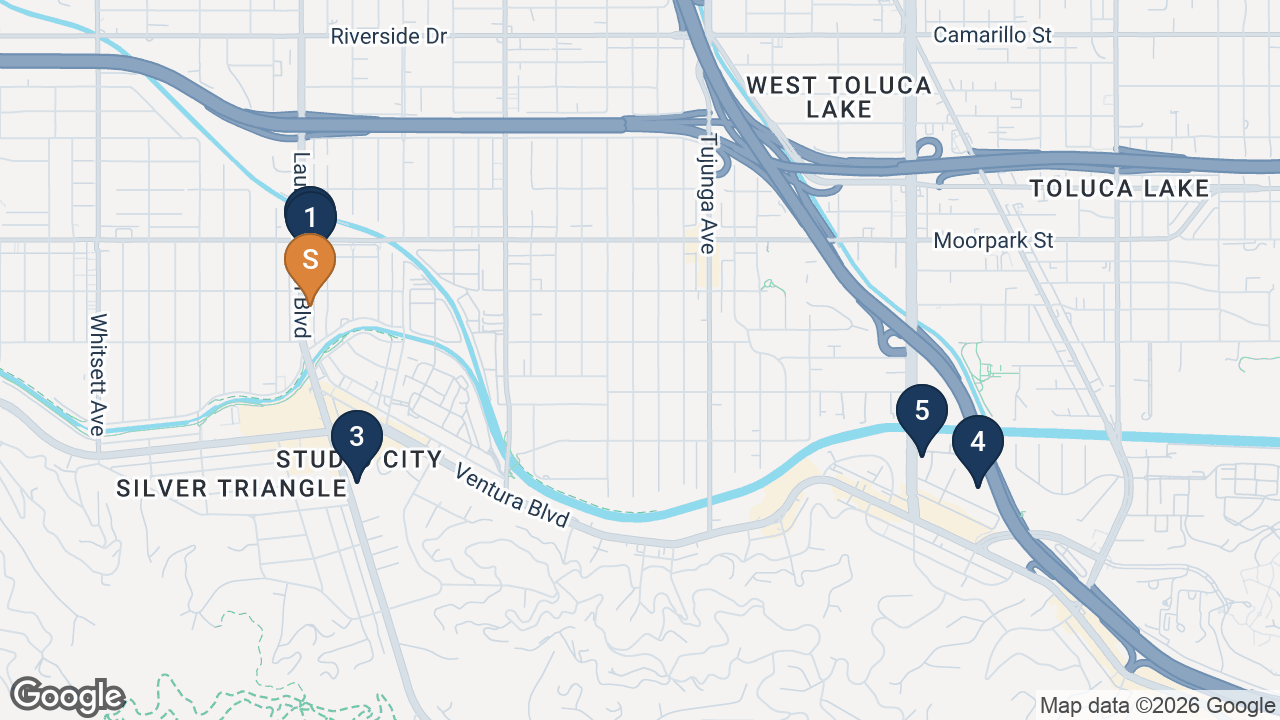
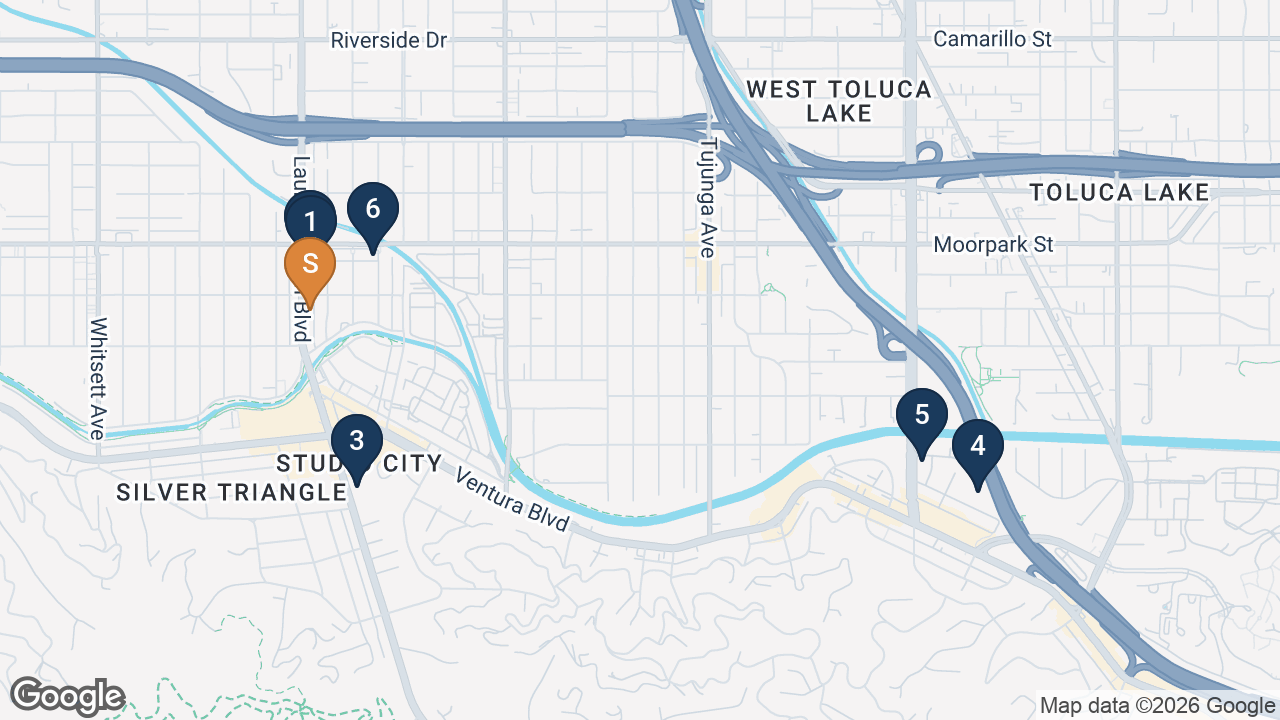
4254 Laurel Canyon BOV: comps, GRM, OMs, retrofit, gallery

diff --git a/index.html b/index.html
@@ -294,7 +294,7 @@ td.num, th.num { text-align: right; }
   <p style="font-size:13px;color:#555;margin-top:-6px;">Closings the LAAA Team has completed, matched to 4254 Laurel Canyon on size, rent control, and ownership profile. These are our own sales, distinct from the market comps used to price the building.</p>
   <div class="closings-grid">
     <div class="closing-card"><div class="closing-sub">Studio City</div><div class="closing-addr">12021 Hoffman Street</div><div class="closing-metrics"><strong>$1,495,000</strong> &middot; $299,000/unit<br>4.40% cap &middot; Nov 2024</div></div>
-    <div class="closing-card"><div class="closing-sub">Toluca Lake</div><div class="closing-addr">10611 Landale Street</div><div class="closing-metrics"><strong>$1,400,000</strong> &middot; $280,000/unit<br>5.34% cap &middot; Dec 2024</div></div>
+    <div class="closing-card"><div class="closing-sub">Toluca Lake</div><div class="closing-addr">10611 Landale Street</div><div class="closing-metrics"><strong>$1,400,000</strong> &middot; $280,000/unit<br>5.26% cap &middot; Dec 2024</div></div>
     <div class="closing-card"><div class="closing-sub">Van Nuys</div><div class="closing-addr">5917 Buffalo Avenue</div><div class="closing-metrics"><strong>$1,645,000</strong> &middot; $329,000/unit<br>6.30% cap &middot; Sep 2025</div></div>
     <div class="closing-card"><div class="closing-sub">Sherman Oaks</div><div class="closing-addr">4500 Vista Del Monte</div><div class="closing-metrics"><strong>$1,745,000</strong> &middot; $349,000/unit<br>Aug 2021</div></div>
     <div class="closing-card"><div class="closing-sub">Studio City</div><div class="closing-addr">12602 Moorpark Street</div><div class="closing-metrics"><strong>$5,425,000</strong> &middot; $678,000/unit<br>3.81% cap &middot; Dec 2022</div></div>
@@ -369,7 +369,7 @@ td.num, th.num { text-align: right; }
       <li>Minimal tenant disruption, controlled access</li>
       <li>Weekly written summaries of calls, tours, and offers</li></ul></div>
   </div>
-  <div class="platform-strip"><span class="platform-strip-label">Advertised On</span><span class="platform-name">THEMLS</span><span class="platform-name">LOOPNET</span><span class="platform-name">CREXI</span><span class="platform-name">COSTAR</span><span class="platform-name">WWW.LAAA.COM</span></div>
+  <div class="platform-strip"><span class="platform-strip-label">Advertised On</span><span class="platform-name">THEMLS</span><span class="platform-name">LOOPNET</span><span class="platform-name">CREXI</span><span class="platform-name">COSTAR</span><span class="platform-name">APARTMENTS.COM</span><span class="platform-name">BREVITAS</span><span class="platform-name">DUXRE</span><span class="platform-name">WWW.LAAA.COM</span></div>
 </div>
 
 <!-- INVESTMENT OVERVIEW -->
@@ -388,13 +388,14 @@ td.num, th.num { text-align: right; }
       </div>
       <div class="inv-text">
         <p>4254 Laurel Canyon Boulevard is a renovated, fully occupied five-unit apartment building in the heart of Studio City, held by the Robin Salame Family Trust. The asset pairs durable, rent-stabilized in-place income with the best walkability in its comp set and modest mark-to-market upside as units reset on turnover under Costa-Hawkins.</p>
-        <p>The seller position is straightforward: present a turned, fully occupied Studio City building positioned inside the re-underwritten comp set on every metric, with a documented path to a stronger stabilized yield as the lower-rent units reset to market on natural turnover. At the recommended value, the building trades at a 5.11% in-place cap and $270,000 per unit &mdash; inside every comp envelope.</p>
+        <p>The seller position is straightforward: present a turned, fully occupied Studio City building positioned inside the re-underwritten comp set on every metric, with a documented path to a stronger stabilized yield as the lower-rent units reset to market on natural turnover. At the recommended value, the building trades at a 5.11% in-place cap and $270,000 per unit &mdash; inside every comp envelope. The mandatory soft-story seismic retrofit is already complete (Certificate of Compliance, October 2021), and recent capital work &mdash; a full copper repipe and electrical updates &mdash; further limits a buyer's near-term capital exposure.</p>
       </div>
     </div>
     <div class="inv-right">
       <div class="inv-photo"><img src="images/living.jpg" alt="Renovated living area"></div>
       <div class="inv-highlights"><h4>Investment Highlights</h4><ul>
         <li><strong>Renovated and fully occupied today</strong> &mdash; 100% physical occupancy</li>
+        <li><strong>Soft-story seismic retrofit complete</strong> &mdash; Certificate of Compliance issued Oct 2021; with a 2014 copper repipe and updated electrical, no mandatory retrofit or major-systems capex looms for a buyer</li>
         <li><strong>Rent-stabilized income floor</strong> &mdash; durable LA RSO income on all five units</li>
         <li><strong>Priced inside every comp envelope</strong> &mdash; below the renovated benchmark on $/SF, at the renovated-tier yield</li>
         <li><strong>Modest, organic upside on turnover</strong> &mdash; +$21,156/yr (+17%) at full turnover under Costa-Hawkins</li>
@@ -477,8 +478,8 @@ td.num, th.num { text-align: right; }
   </div>
   <div class="gallery">
     <figure><img src="images/cover_hero.jpg" alt="Building exterior"><figcaption>Building Exterior</figcaption></figure>
-    <figure><img src="images/kitchen.jpg" alt="Renovated kitchen"><figcaption>Renovated Kitchen</figcaption></figure>
-    <figure><img src="images/aerial.jpg" alt="The parcel from above"><figcaption>The Parcel, From Above</figcaption></figure>
+    <figure><img src="images/living.jpg" alt="Hardwood floors"><figcaption>Hardwood Floors</figcaption></figure>
+    <figure><img src="images/kitchen.jpg" alt="Updated kitchen"><figcaption>Updated Kitchen</figcaption></figure>
   </div>
 </div>
 
@@ -512,25 +513,25 @@ td.num, th.num { text-align: right; }
   <div class="section-divider"></div>
   <div class="loc-wide-map comp-map" style="height:340px;"><img src="images/sale_map.png" alt="Sale Comps Map"></div>
   <div class="table-scroll"><table>
-    <thead><tr><th>Address</th><th>Submarket</th><th class="num">Yr</th><th class="num">Units</th><th class="num">Sale Price</th><th class="num">$/Unit</th><th class="num">$/SF</th><th class="num">Cap</th><th class="num">Dist</th><th class="num">Sold</th></tr></thead>
+    <thead><tr><th>Address</th><th>Submarket</th><th class="num">Yr</th><th class="num">Units</th><th class="num">Sale Price</th><th class="num">$/Unit</th><th class="num">$/SF</th><th class="num">Cap</th><th class="num">GRM</th><th class="num">Dist</th><th class="num">Sold</th></tr></thead>
     <tbody>
-      <tr class="subj"><td>4254 Laurel Canyon <span style="font-weight:400;color:#888;">(subject)</span></td><td>Studio City</td><td class="num">1956</td><td class="num">5</td><td class="num">$1,350,000</td><td class="num">$270,000</td><td class="num">$380.07</td><td class="num">5.11%</td><td class="num">&mdash;</td><td class="num">In place</td></tr>
-      <tr class="laaa-sale"><td>12021 Hoffman Street <span class="laaa-badge">LAAA Team Sale</span> &middot; <a class="om-link" href="oms/12021-hoffman-om.pdf" target="_blank" rel="noopener">OM &#8599;</a></td><td>Studio City</td><td class="num">&mdash;</td><td class="num">5</td><td class="num">$1,495,000</td><td class="num">$299,000</td><td class="num">&mdash;</td><td class="num">4.40%</td><td class="num">&mdash;</td><td class="num">Nov 2024</td></tr>
-      <tr class="laaa-sale"><td>10611 Landale Street <span class="laaa-badge">LAAA Team Sale</span> &middot; <a class="om-link" href="oms/10611-landale-om.pdf" target="_blank" rel="noopener">OM &#8599;</a></td><td>Toluca Lake</td><td class="num">&mdash;</td><td class="num">5</td><td class="num">$1,400,000</td><td class="num">$280,000</td><td class="num">&mdash;</td><td class="num">5.34%</td><td class="num">&mdash;</td><td class="num">Dec 2024</td></tr>
-      <tr><td><a href="https://www.google.com/maps/place/4156+Tujunga+Ave,+Studio+City,+CA+91604/" target="_blank" rel="noopener">4156 Tujunga Avenue</a> &middot; <a href="https://www.loopnet.com/search/commercial-real-estate/4156-tujunga-ave-studio-city-ca/" target="_blank" rel="noopener" style="font-size:11px;color:#3F6FA8;text-decoration:none;">photos &#8599;</a></td><td>Studio City</td><td class="num">1971</td><td class="num">6</td><td class="num">$1,899,000</td><td class="num">$316,500</td><td class="num">$411.57</td><td class="num">5.11%</td><td class="num">1.6 mi</td><td class="num">Feb 2026</td></tr>
-      <tr><td><a href="https://www.google.com/maps/place/4350+Colfax+Ave,+Studio+City,+CA+91604/" target="_blank" rel="noopener">4350 Colfax Avenue</a> &middot; <a href="https://www.apartments.com/4350-colfax-ave-studio-city-ca/" target="_blank" rel="noopener" style="font-size:11px;color:#3F6FA8;text-decoration:none;">photos &#8599;</a></td><td>Studio City</td><td class="num">1958</td><td class="num">9</td><td class="num">$2,000,000</td><td class="num">$222,222</td><td class="num">$339.90</td><td class="num">5.27%</td><td class="num">0.8 mi</td><td class="num">Nov 2025</td></tr>
-      <tr><td><a href="https://www.google.com/maps/place/11607+Acama+St,+Studio+City,+CA+91602/" target="_blank" rel="noopener">11607 Acama Street</a> &middot; <a href="https://www.loopnet.com/search/commercial-real-estate/11607-acama-st-studio-city-ca/" target="_blank" rel="noopener" style="font-size:11px;color:#3F6FA8;text-decoration:none;">photos &#8599;</a></td><td>Studio City</td><td class="num">1971</td><td class="num">12</td><td class="num">$3,880,000</td><td class="num">$323,333</td><td class="num">$241.77</td><td class="num">NV</td><td class="num">1.1 mi</td><td class="num">Mar 2026</td></tr>
-      <tr><td><a href="https://www.google.com/maps/place/13021+Moorpark+St,+Studio+City,+CA+91604/" target="_blank" rel="noopener">13021 Moorpark Street</a> &middot; <a href="https://www.loopnet.com/search/commercial-real-estate/13021-moorpark-st-studio-city-ca/" target="_blank" rel="noopener" style="font-size:11px;color:#3F6FA8;text-decoration:none;">photos &#8599;</a></td><td>Studio City</td><td class="num">1978</td><td class="num">14</td><td class="num">$4,400,000</td><td class="num">$314,286</td><td class="num">$328.46</td><td class="num">NV</td><td class="num">1.3 mi</td><td class="num">Apr 2026</td></tr>
-      <tr><td><a href="https://www.google.com/maps/place/4353+Teesdale+Ave,+Studio+City,+CA+91604/" target="_blank" rel="noopener">4353 Teesdale Avenue</a> <span style="font-size:11px;color:#888;">(distressed)</span></td><td>Studio City</td><td class="num">&mdash;</td><td class="num">6</td><td class="num">$1,310,000</td><td class="num">$218,333</td><td class="num">$182.96</td><td class="num">NV</td><td class="num">&mdash;</td><td class="num">Oct 2025</td></tr>
-      <tr class="summary"><td colspan="4"><strong>Comparable averages (excl. distressed Teesdale)</strong></td><td class="num"><strong>$3,044,750</strong></td><td class="num"><strong>$294,085</strong></td><td class="num"><strong>$330.43</strong></td><td class="num"><strong>5.19%</strong></td><td class="num">&mdash;</td><td class="num">&mdash;</td></tr>
+      <tr class="subj"><td>4254 Laurel Canyon <span style="font-weight:400;color:#888;">(subject)</span></td><td>Studio City</td><td class="num">1956</td><td class="num">5</td><td class="num">$1,350,000</td><td class="num">$270,000</td><td class="num">$380.07</td><td class="num">5.11%</td><td class="num">11.38</td><td class="num">&mdash;</td><td class="num">In place</td></tr>
+      <tr class="laaa-sale"><td>12021 Hoffman Street <span class="laaa-badge">LAAA Team Sale</span> &middot; <a class="om-link" href="oms/12021-hoffman-om.pdf" target="_blank" rel="noopener">OM &#8599;</a></td><td>Studio City</td><td class="num">1937</td><td class="num">5</td><td class="num">$1,495,000</td><td class="num">$299,000</td><td class="num">$447.07</td><td class="num">4.40%</td><td class="num">13.80</td><td class="num">0.4 mi</td><td class="num">Nov 2024</td></tr>
+      <tr class="laaa-sale"><td>10611 Landale Street <span class="laaa-badge">LAAA Team Sale</span> &middot; <a class="om-link" href="oms/10611-landale-om.pdf" target="_blank" rel="noopener">OM &#8599;</a></td><td>Toluca Lake</td><td class="num">1951</td><td class="num">5</td><td class="num">$1,400,000</td><td class="num">$280,000</td><td class="num">$340.30</td><td class="num">5.26%</td><td class="num">12.07</td><td class="num">2.2 mi</td><td class="num">Dec 2024</td></tr>
+      <tr><td><a href="https://www.google.com/maps/place/4156+Tujunga+Ave,+Studio+City,+CA+91604/" target="_blank" rel="noopener">4156 Tujunga Avenue</a> &middot; <a class="om-link" href="oms/4156-tujunga-om.pdf" target="_blank" rel="noopener">OM &#8599;</a></td><td>Studio City</td><td class="num">1971</td><td class="num">6</td><td class="num">$1,899,000</td><td class="num">$316,500</td><td class="num">$411.57</td><td class="num">5.11%</td><td class="num">12.41</td><td class="num">1.6 mi</td><td class="num">Feb 2026</td></tr>
+      <tr><td><a href="https://www.google.com/maps/place/4350+Colfax+Ave,+Studio+City,+CA+91604/" target="_blank" rel="noopener">4350 Colfax Avenue</a> &middot; <a href="https://www.apartments.com/4350-colfax-ave-studio-city-ca/" target="_blank" rel="noopener" style="font-size:11px;color:#3F6FA8;text-decoration:none;">photos &#8599;</a></td><td>Studio City</td><td class="num">1958</td><td class="num">9</td><td class="num">$2,000,000</td><td class="num">$222,222</td><td class="num">$339.90</td><td class="num">5.27%</td><td class="num">11.64</td><td class="num">0.8 mi</td><td class="num">Nov 2025</td></tr>
+      <tr><td><a href="https://www.google.com/maps/place/11607+Acama+St,+Studio+City,+CA+91602/" target="_blank" rel="noopener">11607 Acama Street</a> &middot; <a class="om-link" href="oms/11607-acama-om.pdf" target="_blank" rel="noopener">OM &#8599;</a></td><td>Studio City</td><td class="num">1971</td><td class="num">12</td><td class="num">$3,880,000</td><td class="num">$323,333</td><td class="num">$241.77</td><td class="num">6.60%</td><td class="num">10.09</td><td class="num">1.1 mi</td><td class="num">Mar 2026</td></tr>
+      <tr><td><a href="https://www.google.com/maps/place/13021+Moorpark+St,+Studio+City,+CA+91604/" target="_blank" rel="noopener">13021 Moorpark Street</a> &middot; <a class="om-link" href="oms/13021-moorpark-om.pdf" target="_blank" rel="noopener">OM &#8599;</a></td><td>Studio City</td><td class="num">1978</td><td class="num">14</td><td class="num">$4,400,000</td><td class="num">$314,286</td><td class="num">$328.46</td><td class="num">6.84%</td><td class="num">10.19</td><td class="num">1.3 mi</td><td class="num">Apr 2026</td></tr>
+      <tr><td><a href="https://www.google.com/maps/place/4353+Teesdale+Ave,+Studio+City,+CA+91604/" target="_blank" rel="noopener">4353 Teesdale Avenue</a> <span style="font-size:11px;color:#888;">(distressed)</span></td><td>Studio City</td><td class="num">1965</td><td class="num">6</td><td class="num">$1,310,000</td><td class="num">$218,333</td><td class="num">$182.96</td><td class="num">NV</td><td class="num">NV</td><td class="num">0.9 mi</td><td class="num">Oct 2025</td></tr>
+      <tr class="summary"><td colspan="4"><strong>Comparable averages (excl. distressed Teesdale)</strong></td><td class="num"><strong>$3,044,750</strong></td><td class="num"><strong>$294,085</strong></td><td class="num"><strong>$330.43</strong></td><td class="num"><strong>5.19%</strong></td><td class="num"><strong>12.03</strong></td><td class="num">&mdash;</td><td class="num">&mdash;</td></tr>
     </tbody>
   </table></div>
-  <p style="font-size:12px;color:#888;margin-top:-12px;">Each sale re-underwritten on a common basis (income re-cast the way a buyer would; property tax reassessed at its own sale price). Cap rate is shown only where current in-place income is verified from source documents &mdash; "NV" = not verified. The 4353 Teesdale sale is a documented distressed transaction, shown as a forced-sale floor and excluded from the averages. <strong>12021 Hoffman and 10611 Landale are LAAA Team closings</strong> &mdash; the two closest five-unit analogs &mdash; shown for reference with their offering memoranda; they are not part of the market-comp average row.</p>
+  <p style="font-size:12px;color:#888;margin-top:-12px;">Each sale re-underwritten on a common basis (income re-cast the way a buyer would; property tax reassessed at its own sale price at 1.25%). Cap rate and GRM are shown only where current in-place income is verified from source documents &mdash; "NV" = not verified. 11607 Acama (6.60% cap / 10.09 GRM) and 13021 Moorpark (6.84% cap / 10.19 GRM) are computed from their offering memoranda (in-place NOI reassessed at each property's sale price); as larger value-add buildings they are shown for reference and held out of the renovated five-unit verified average (5.19% cap / 12.03 GRM, set by the closest peers 4156 Tujunga and 4350 Colfax). The 4353 Teesdale sale is a documented distressed transaction, shown as a forced-sale floor and excluded from the averages. <strong>12021 Hoffman and 10611 Landale are LAAA Team closings</strong> &mdash; the two closest five-unit analogs &mdash; shown for reference with their offering memoranda; they are not part of the market-comp average row.</p>
   <div class="comp-narratives">
     <p class="narrative"><strong>4156 Tujunga Avenue</strong> &mdash; The renovated six-unit benchmark and one of two verified-income comps. Even turnkey, it took 139 days and seller concessions to close at a verified 5.11% cap / 12.41 GRM. The subject prices below it on per-unit and per-SF for its smaller one-bedroom mix, at the same renovated-tier yield.</p>
     <p class="narrative"><strong>4350 Colfax Avenue</strong> &mdash; The closest profile peer: a one-bedroom-heavy 1958 nine-unit half a mile away, only partially updated, that sold about 16% under ask. It sets the price-per-unit floor and provides verified yield support at a 5.27% actual cap / 11.64 GRM.</p>
-    <p class="narrative"><strong>11607 Acama Street</strong> &mdash; A larger value-add townhome sale that drew nine all-cash offers, live proof of how deep Studio City demand runs for rent-stabilized product. Its big two- and three-bedroom units top the per-unit band but bottom the per-SF band &mdash; the opposite pull from the subject's small one-bedrooms.</p>
-    <p class="narrative"><strong>13021 Moorpark Street</strong> &mdash; A larger, substantially renovated 1978 townhouse sale. Tenants pay their own utilities, unlike the owner-pays-water subject, so it is best read as an upper-tier condition and amenity benchmark, not a verified yield anchor.</p>
+    <p class="narrative"><strong>11607 Acama Street</strong> &mdash; A larger value-add townhome sale that drew nine all-cash offers, live proof of how deep Studio City demand runs for rent-stabilized product. Its big two- and three-bedroom units top the per-unit band but bottom the per-SF band &mdash; the opposite pull from the subject's small one-bedrooms. At the $3.88M sale price its in-place income (per the OM) pencils to a 6.60% cap, the value-add townhome tier sitting above the renovated-product yield the subject prices at.</p>
+    <p class="narrative"><strong>13021 Moorpark Street</strong> &mdash; A larger, substantially renovated 1978 fourteen-unit sale. Tenants pay their own utilities, unlike the owner-pays-water subject, so it is best read as an upper-tier condition and amenity benchmark. At the $4.4M sale price its in-place income (per the OM) pencils to a 6.84% cap / 10.19 GRM &mdash; the larger-building value-add tier sitting above the subject's renovated five-unit yield.</p>
   </div>
 </div>
 
@@ -554,10 +555,11 @@ td.num, th.num { text-align: right; }
     <tbody>
       <tr class="subj"><td>Subject &mdash; current</td><td class="num">$1,911</td><td class="num">680</td><td class="num">$2.81</td></tr>
       <tr class="subj"><td>Subject &mdash; pro forma</td><td class="num">$2,250</td><td class="num">680</td><td class="num">$3.31</td></tr>
-      <tr><td><a href="https://www.zillow.com/homes/4334-Laurel-Canyon-Blvd,-Studio-City,-CA-91604_rb/" target="_blank" rel="noopener">4334 Laurel Canyon Blvd</a> &middot; <a href="https://www.apartments.com/los-angeles-ca/?q=4334%20Laurel%20Canyon%20Blvd" target="_blank" rel="noopener" style="font-size:11px;color:#3F6FA8;text-decoration:none;">apartments.com &#8599;</a></td><td class="num">$2,274</td><td class="num">650</td><td class="num">$3.50</td></tr>
+      <tr><td><a href="https://www.apartments.com/studio-center-apartments-studio-city-ca/skkwhv7/" target="_blank" rel="noopener">4334 Laurel Canyon Blvd</a> &middot; <a href="https://www.apartments.com/studio-center-apartments-studio-city-ca/skkwhv7/" target="_blank" rel="noopener" style="font-size:11px;color:#3F6FA8;text-decoration:none;">apartments.com &#8599;</a></td><td class="num">$2,274</td><td class="num">650</td><td class="num">$3.50</td></tr>
       <tr><td><a href="https://www.zillow.com/homes/4336-Laurel-Canyon-Blvd,-Studio-City,-CA-91604_rb/" target="_blank" rel="noopener">4336 Laurel Canyon Blvd</a> &middot; <a href="https://www.apartments.com/los-angeles-ca/?q=4336%20Laurel%20Canyon%20Blvd" target="_blank" rel="noopener" style="font-size:11px;color:#3F6FA8;text-decoration:none;">apartments.com &#8599;</a></td><td class="num">$2,295</td><td class="num">650</td><td class="num">$3.53</td></tr>
       <tr><td><a href="https://www.zillow.com/homes/3930-Laurel-Canyon-Blvd,-Studio-City,-CA-91604_rb/" target="_blank" rel="noopener">3930 Laurel Canyon Blvd</a> &middot; <a href="https://www.apartments.com/los-angeles-ca/?q=3930%20Laurel%20Canyon%20Blvd" target="_blank" rel="noopener" style="font-size:11px;color:#3F6FA8;text-decoration:none;">apartments.com &#8599;</a></td><td class="num">$2,199</td><td class="num">650</td><td class="num">$3.38</td></tr>
-      <tr class="summary"><td><strong>Comparable average</strong></td><td class="num"><strong>$2,256</strong></td><td class="num"><strong>650</strong></td><td class="num"><strong>$3.47</strong></td></tr>
+      <tr><td><a href="https://www.apartments.com/11954-moorpark-st-studio-city-ca/b7fcsr8/" target="_blank" rel="noopener">11954 Moorpark St</a> &middot; <a href="https://www.apartments.com/11954-moorpark-st-studio-city-ca/b7fcsr8/" target="_blank" rel="noopener" style="font-size:11px;color:#3F6FA8;text-decoration:none;">apartments.com &#8599;</a> <span style="font-size:11px;color:#888;">(active)</span></td><td class="num">$1,850</td><td class="num">600</td><td class="num">$3.08</td></tr>
+      <tr class="summary"><td><strong>Comparable average</strong></td><td class="num"><strong>$2,155</strong></td><td class="num"><strong>638</strong></td><td class="num"><strong>$3.37</strong></td></tr>
     </tbody>
   </table></div>
   <h3 class="sub-heading">Two-Bedroom Lease Comparables</h3>
@@ -568,7 +570,8 @@ td.num, th.num { text-align: right; }
       <tr class="subj"><td>Subject &mdash; pro forma</td><td class="num">$2,650</td><td class="num">832</td><td class="num">$3.19</td></tr>
       <tr><td><a href="https://www.zillow.com/homes/10915-Bluffside-Dr,-Studio-City,-CA-91604_rb/" target="_blank" rel="noopener">10915 Bluffside Dr</a> &middot; <a href="https://www.apartments.com/los-angeles-ca/?q=10915%20Bluffside%20Dr" target="_blank" rel="noopener" style="font-size:11px;color:#3F6FA8;text-decoration:none;">apartments.com &#8599;</a></td><td class="num">$2,425</td><td class="num">900</td><td class="num">$2.69</td></tr>
       <tr><td><a href="https://www.zillow.com/homes/10979-Bluffside-Dr,-Studio-City,-CA-91604_rb/" target="_blank" rel="noopener">10979 Bluffside Dr</a> &middot; <a href="https://www.apartments.com/los-angeles-ca/?q=10979%20Bluffside%20Dr" target="_blank" rel="noopener" style="font-size:11px;color:#3F6FA8;text-decoration:none;">apartments.com &#8599;</a></td><td class="num">$2,880</td><td class="num">950</td><td class="num">$3.03</td></tr>
-      <tr class="summary"><td><strong>Comparable average</strong></td><td class="num"><strong>$2,653</strong></td><td class="num"><strong>925</strong></td><td class="num"><strong>$2.86</strong></td></tr>
+      <tr><td><a href="https://www.apartments.com/11954-moorpark-st-studio-city-ca/b7fcsr8/" target="_blank" rel="noopener">11954 Moorpark St</a> &middot; <a href="https://www.apartments.com/11954-moorpark-st-studio-city-ca/b7fcsr8/" target="_blank" rel="noopener" style="font-size:11px;color:#3F6FA8;text-decoration:none;">apartments.com &#8599;</a> <span style="font-size:11px;color:#888;">(active)</span></td><td class="num">$2,250</td><td class="num">700</td><td class="num">$3.21</td></tr>
+      <tr class="summary"><td><strong>Comparable average</strong></td><td class="num"><strong>$2,518</strong></td><td class="num"><strong>850</strong></td><td class="num"><strong>$2.98</strong></td></tr>
     </tbody>
   </table></div>
   <p style="font-size:12px;color:#888;">Comparables are recent active asking rents on and near the Laurel Canyon corridor, used to validate the pro forma market rents. Each pro forma rent clears the highest in-place rent for its type. Upside is captured on natural turnover, not by buyouts. Figures are estimates for discussion and should be confirmed at listing.</p>